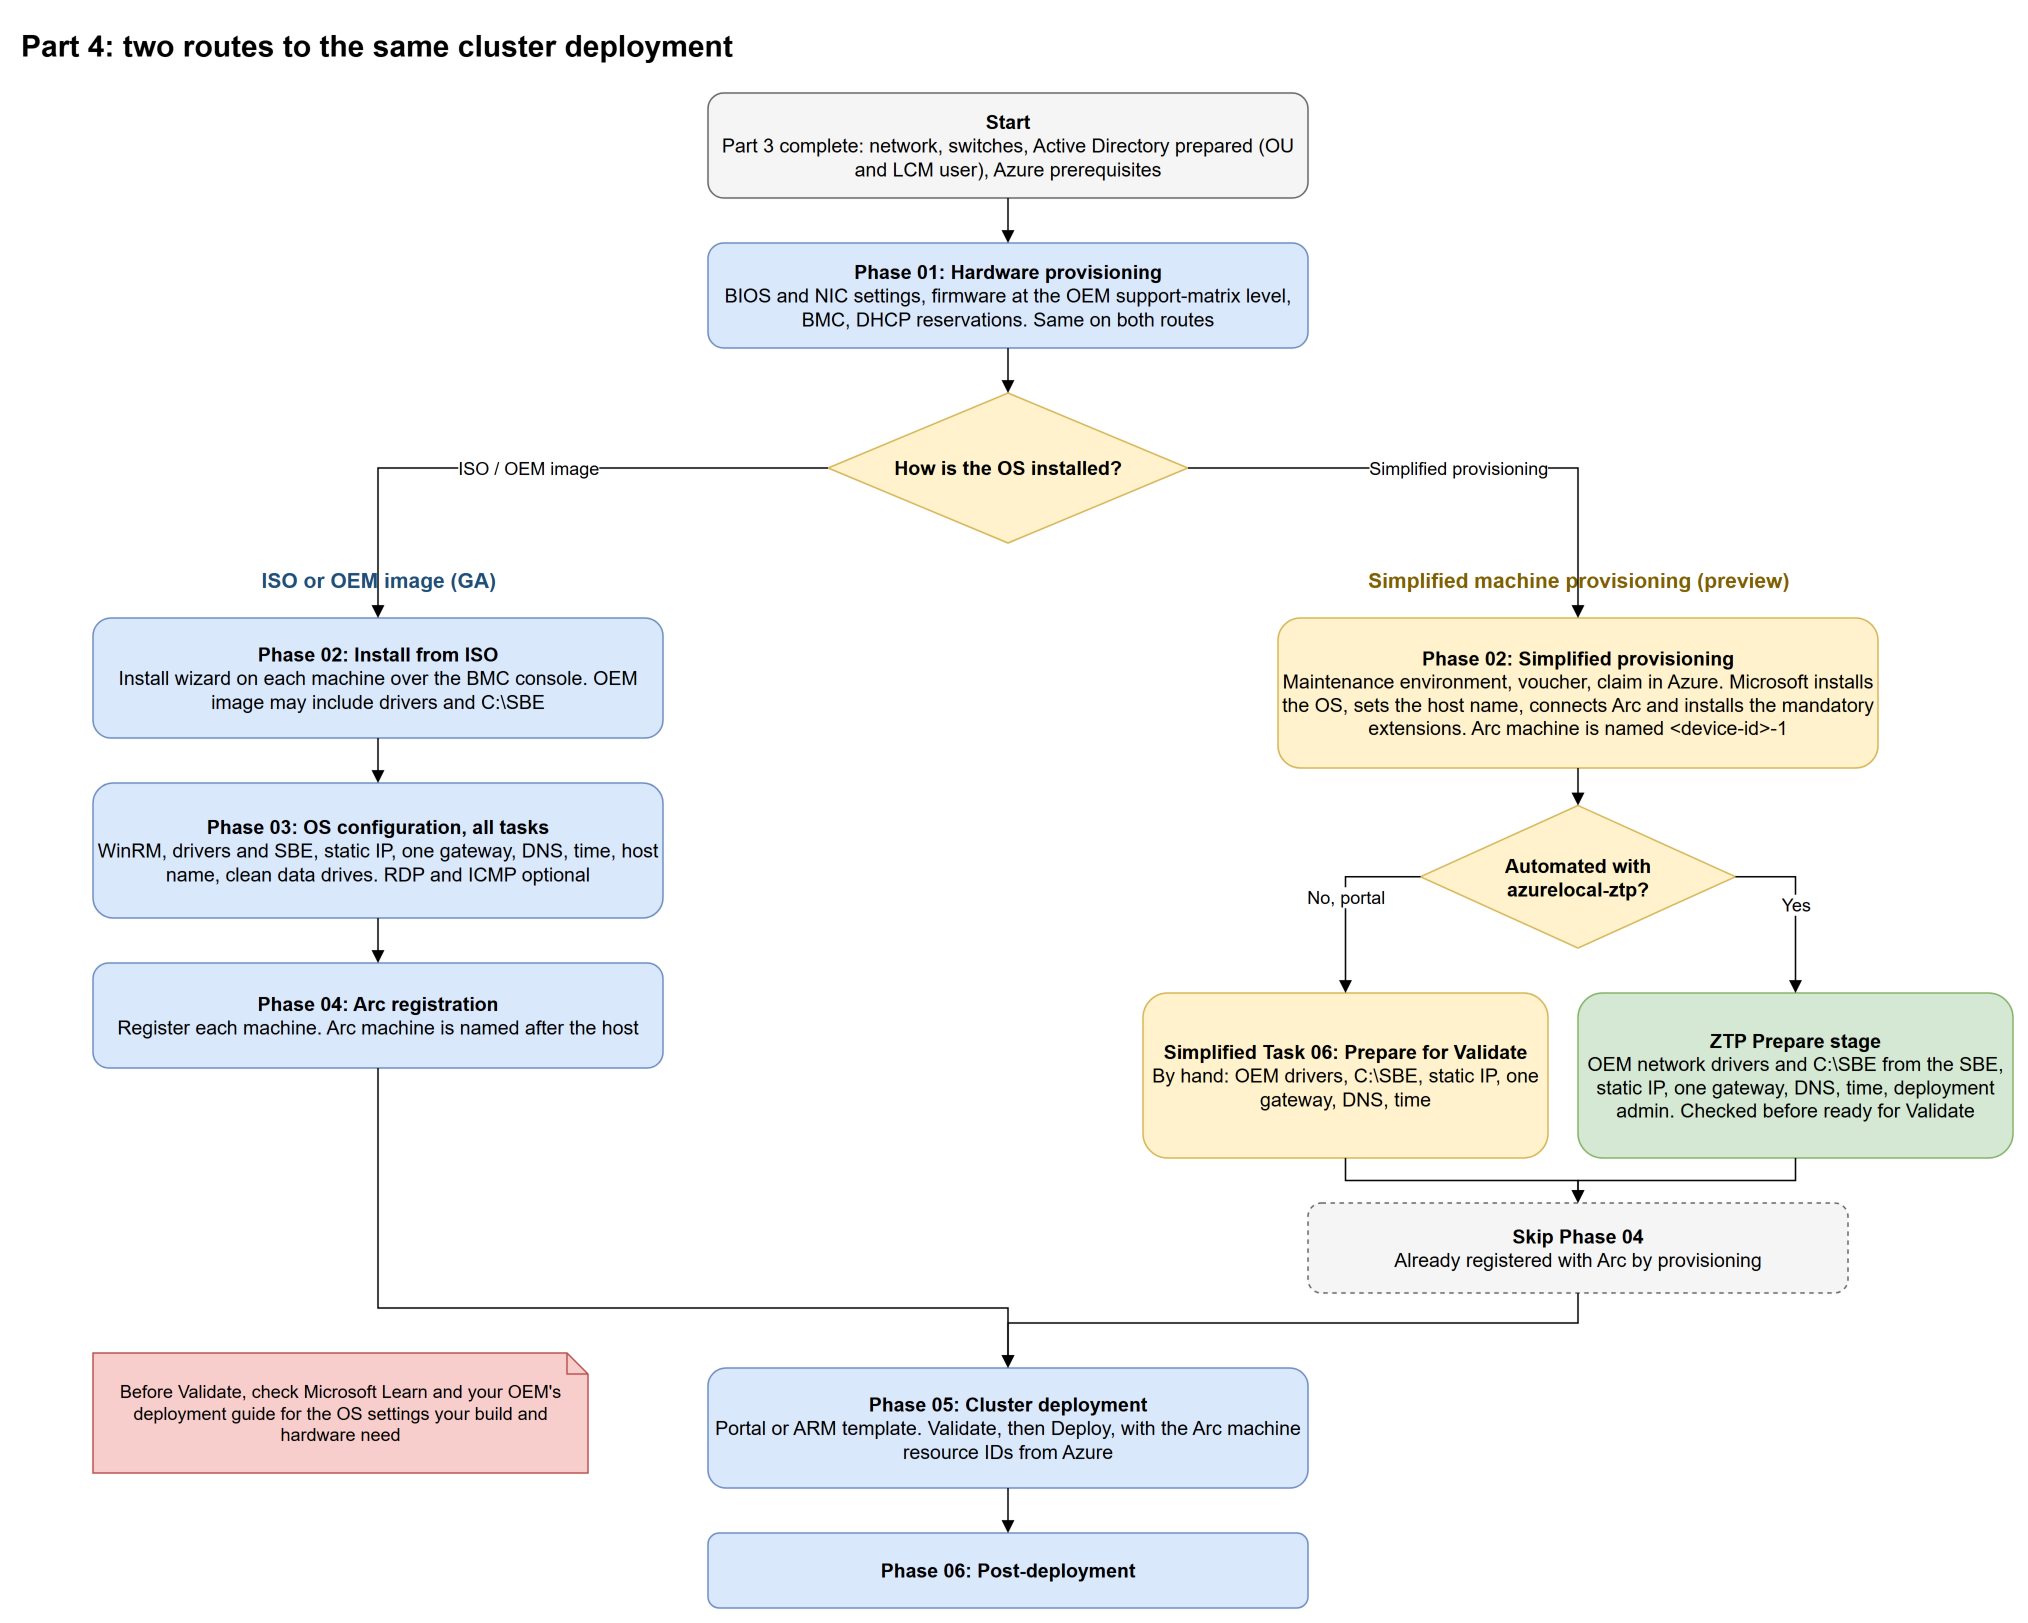
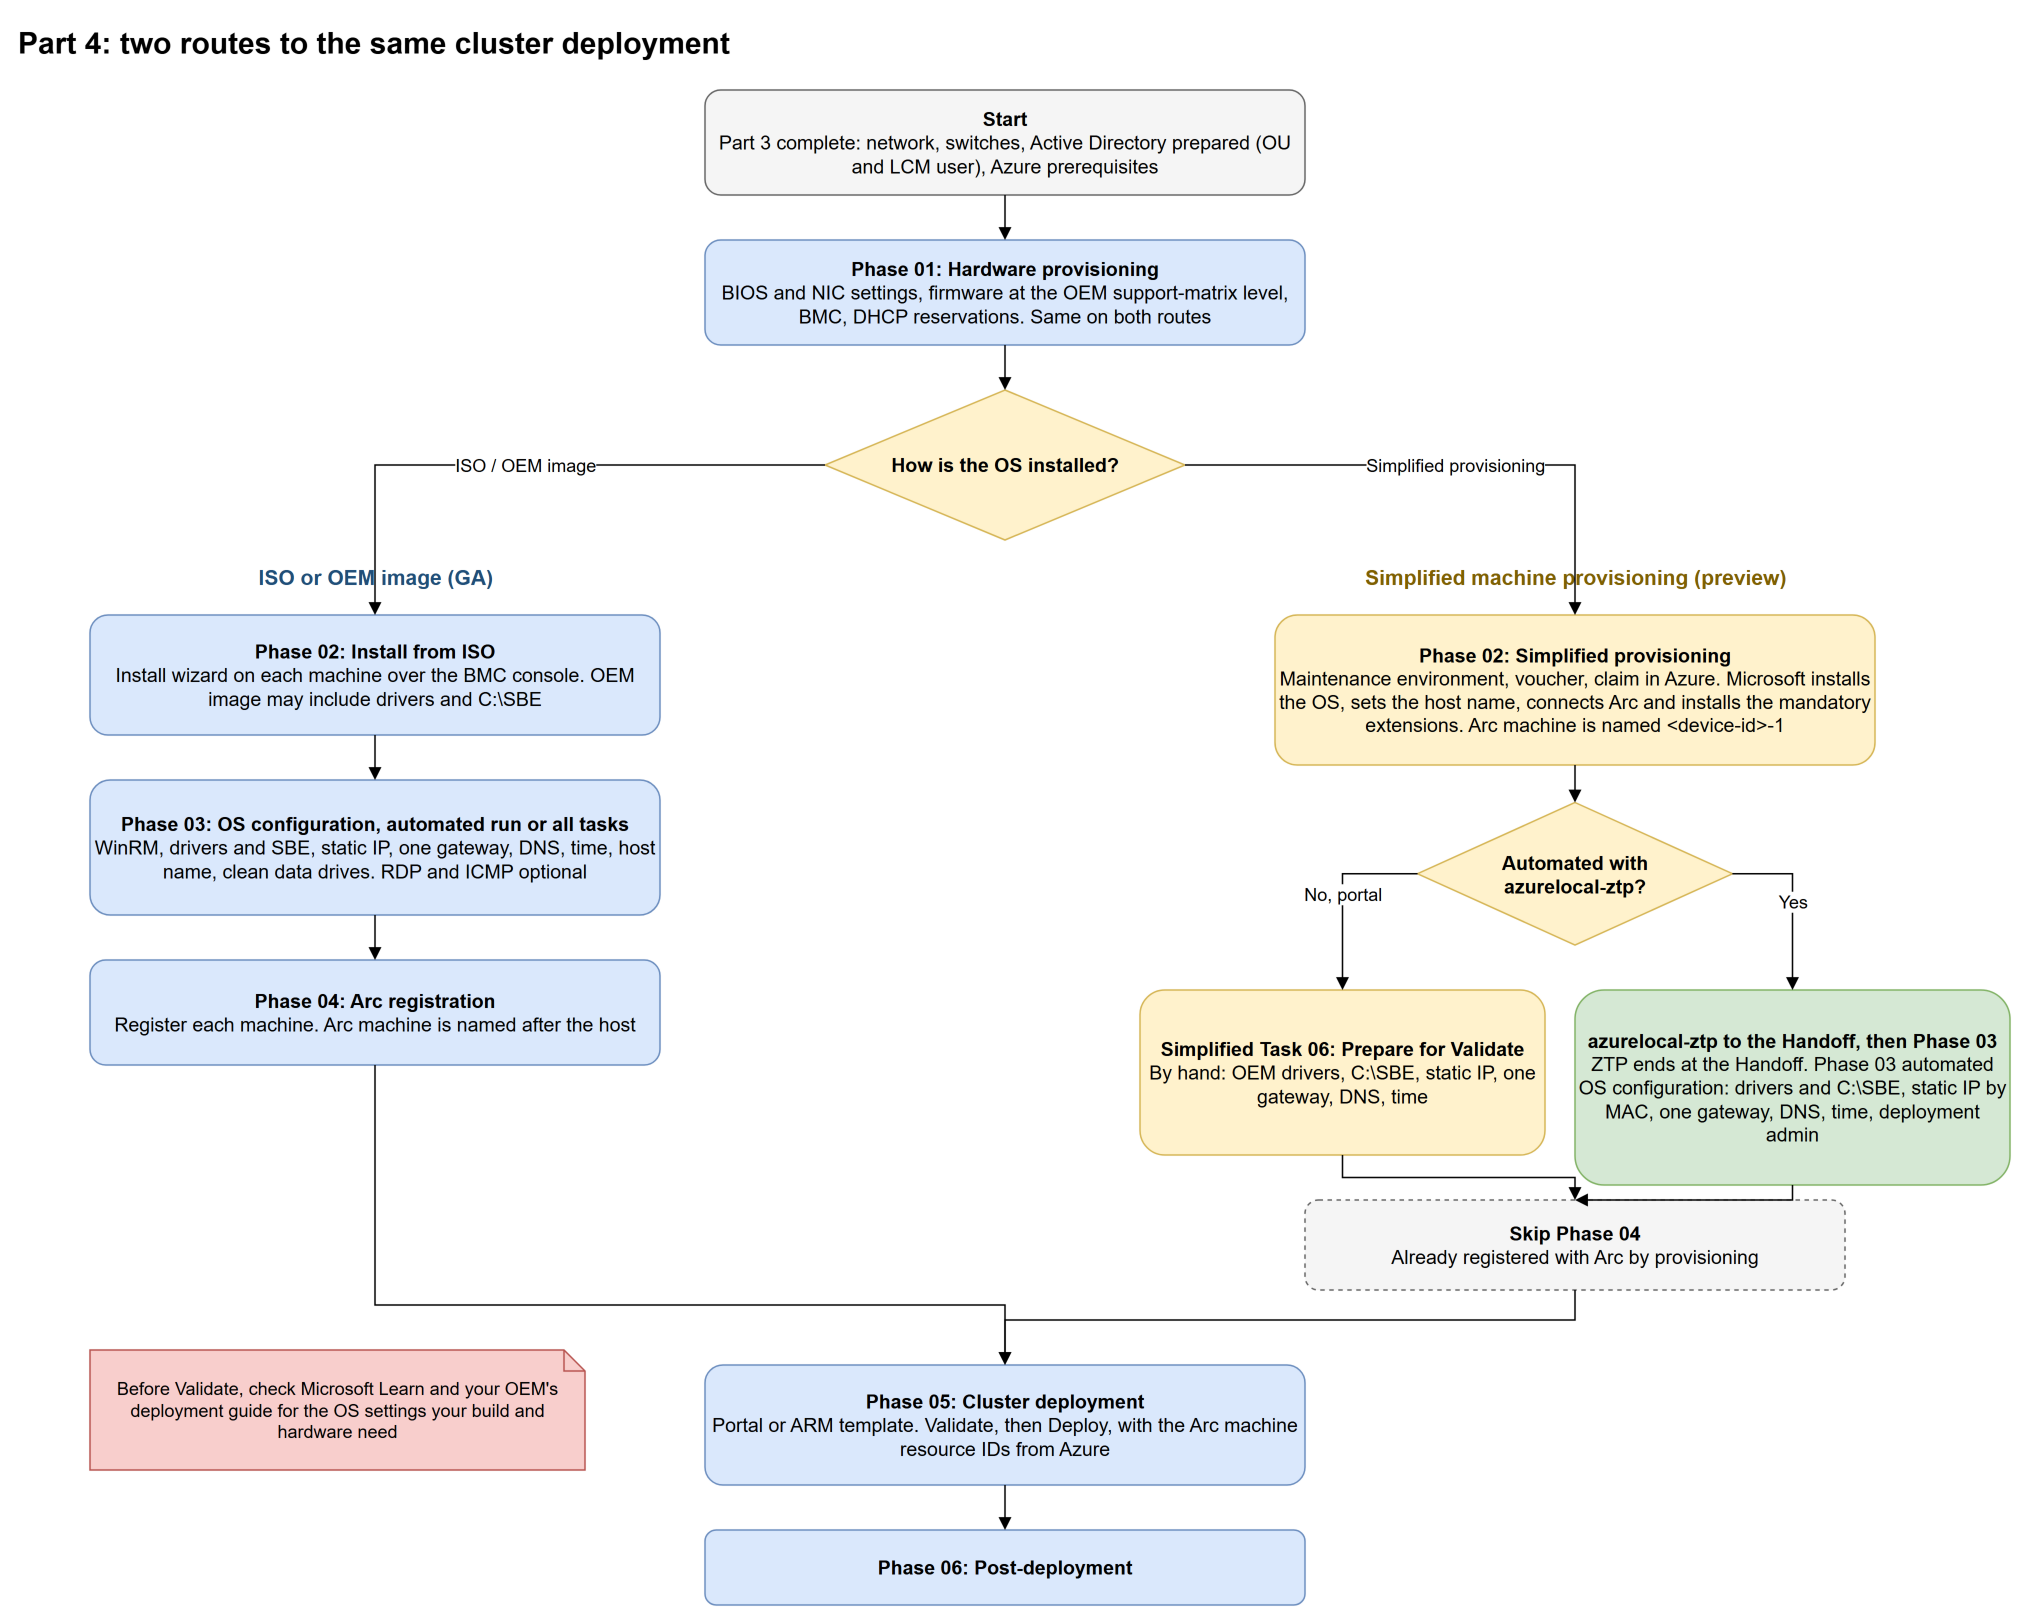
docs(cluster-deployment): bare metal to a deployed cluster diagram, routes updated for the Handoff
- New end-to-end diagram (bare-metal-to-cluster.drawio and its PNG): hardware and iDRAC, OS provisioning by ZTP or ISO,
  OS configuration, Arc registration on the ISO route, ARM Validate, ARM Deploy, post-deployment. The draw.io boxes link
  to each phase. Added to the Part 4 index and to Choose your route, with a table of each phase's pages.
- The routes diagram no longer shows a ZTP Prepare stage: ZTP ends at the Handoff and Phase 03 follows.
- Decision matrix: the ZTP column leaves drivers, SBE, static address, gateway, DNS, time and the deployment admin to the
  OS configuration run; BIOS isolation and the Mode A reservation are described.
- The new diagrams open in the click-to-zoom viewer.

diff --git a/src/clientModules/imageZoom.js b/src/clientModules/imageZoom.js
@@ -209,6 +209,7 @@ function openViewer(source) {
 export { enableImageZoom };
 
 // Docusaurus renames images at build time (/assets/images/ztp-flow-<hash>.png), so match the file name.
+// os-configuration- also matches provisioning-to-os-configuration, os-configuration-flow and os-configuration-pipeline.
 enableImageZoom(
-  '.markdown img[src*="ztp-"], .markdown img[src*="cluster-deployment-routes"]'
+  '.markdown img[src*="ztp-"], .markdown img[src*="cluster-deployment-routes"], .markdown img[src*="bare-metal-to-cluster"], .markdown img[src*="os-configuration-"]'
 );

diff --git a/src/css/image-zoom.css b/src/css/image-zoom.css
@@ -81,6 +81,8 @@
 
 /* Images that open in the viewer when clicked. */
 .markdown img[src*='ztp-'],
-.markdown img[src*='cluster-deployment-routes'] {
+.markdown img[src*='cluster-deployment-routes'],
+.markdown img[src*='bare-metal-to-cluster'],
+.markdown img[src*='os-configuration-'] {
   cursor: zoom-in;
 }
